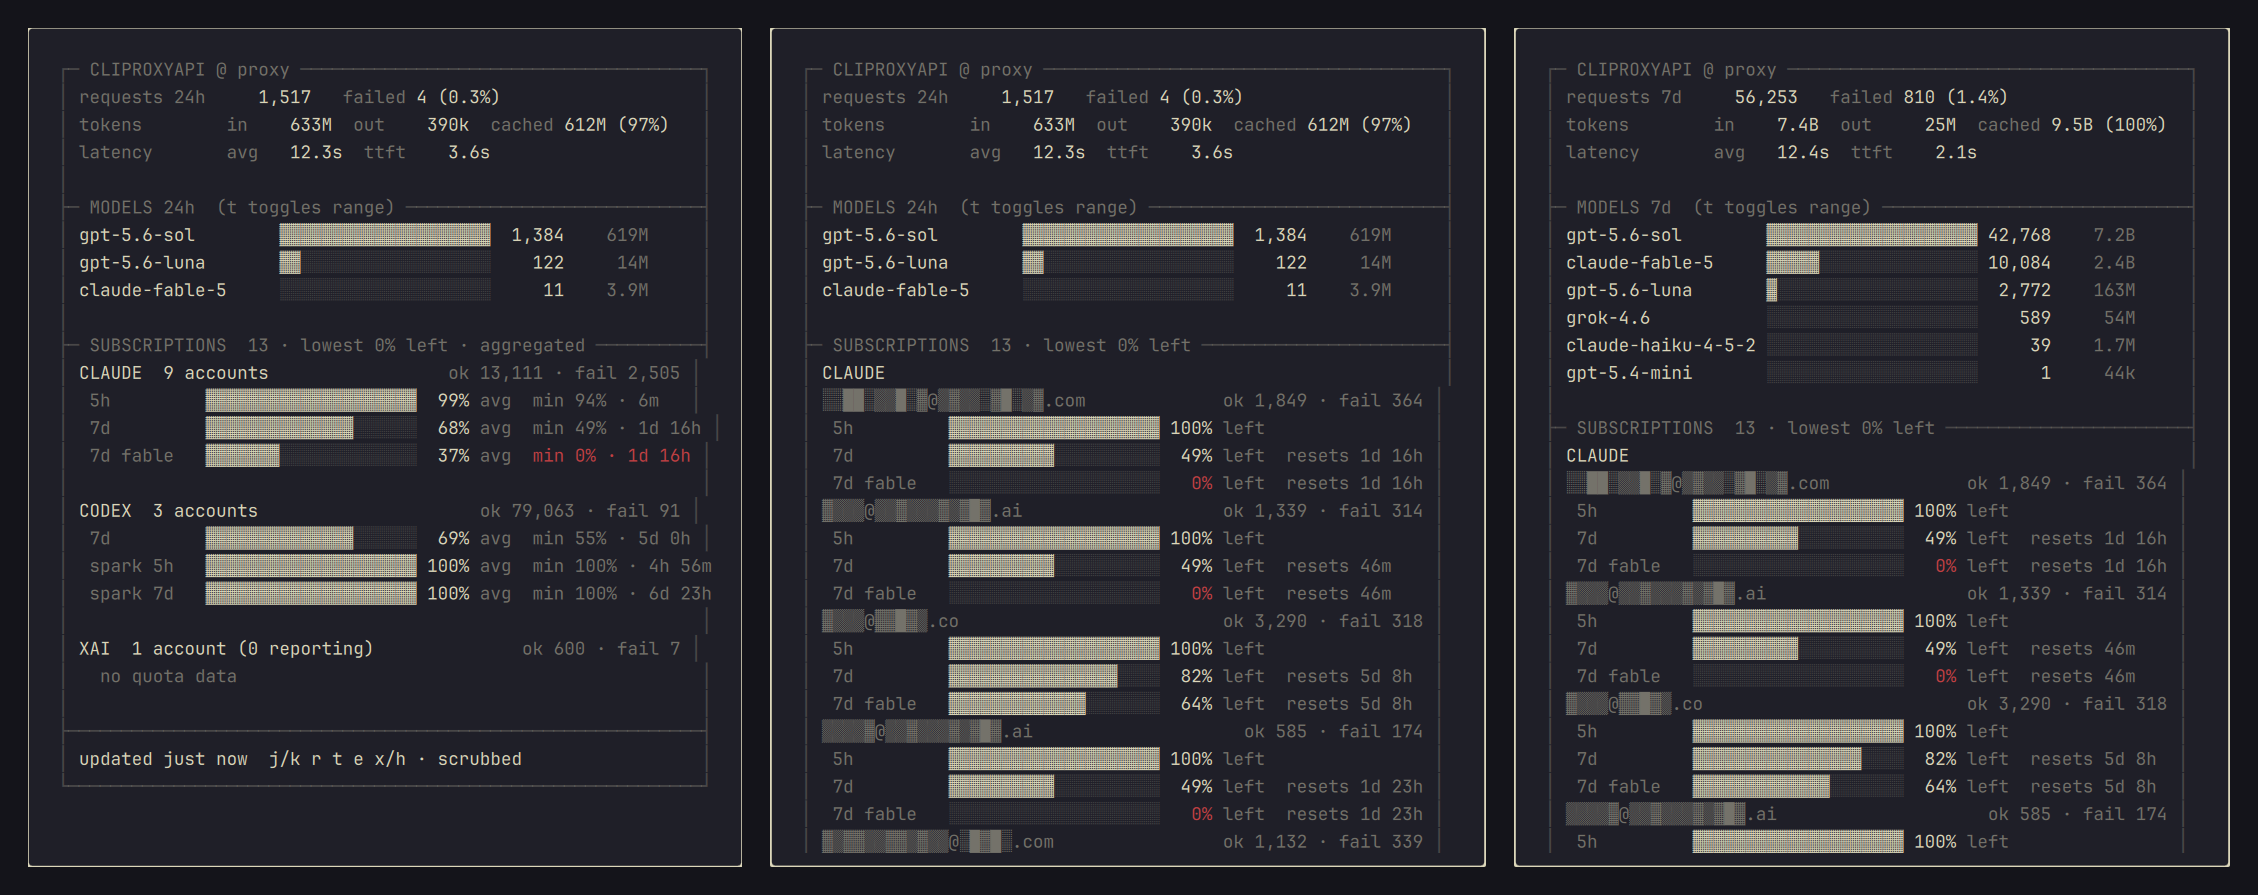
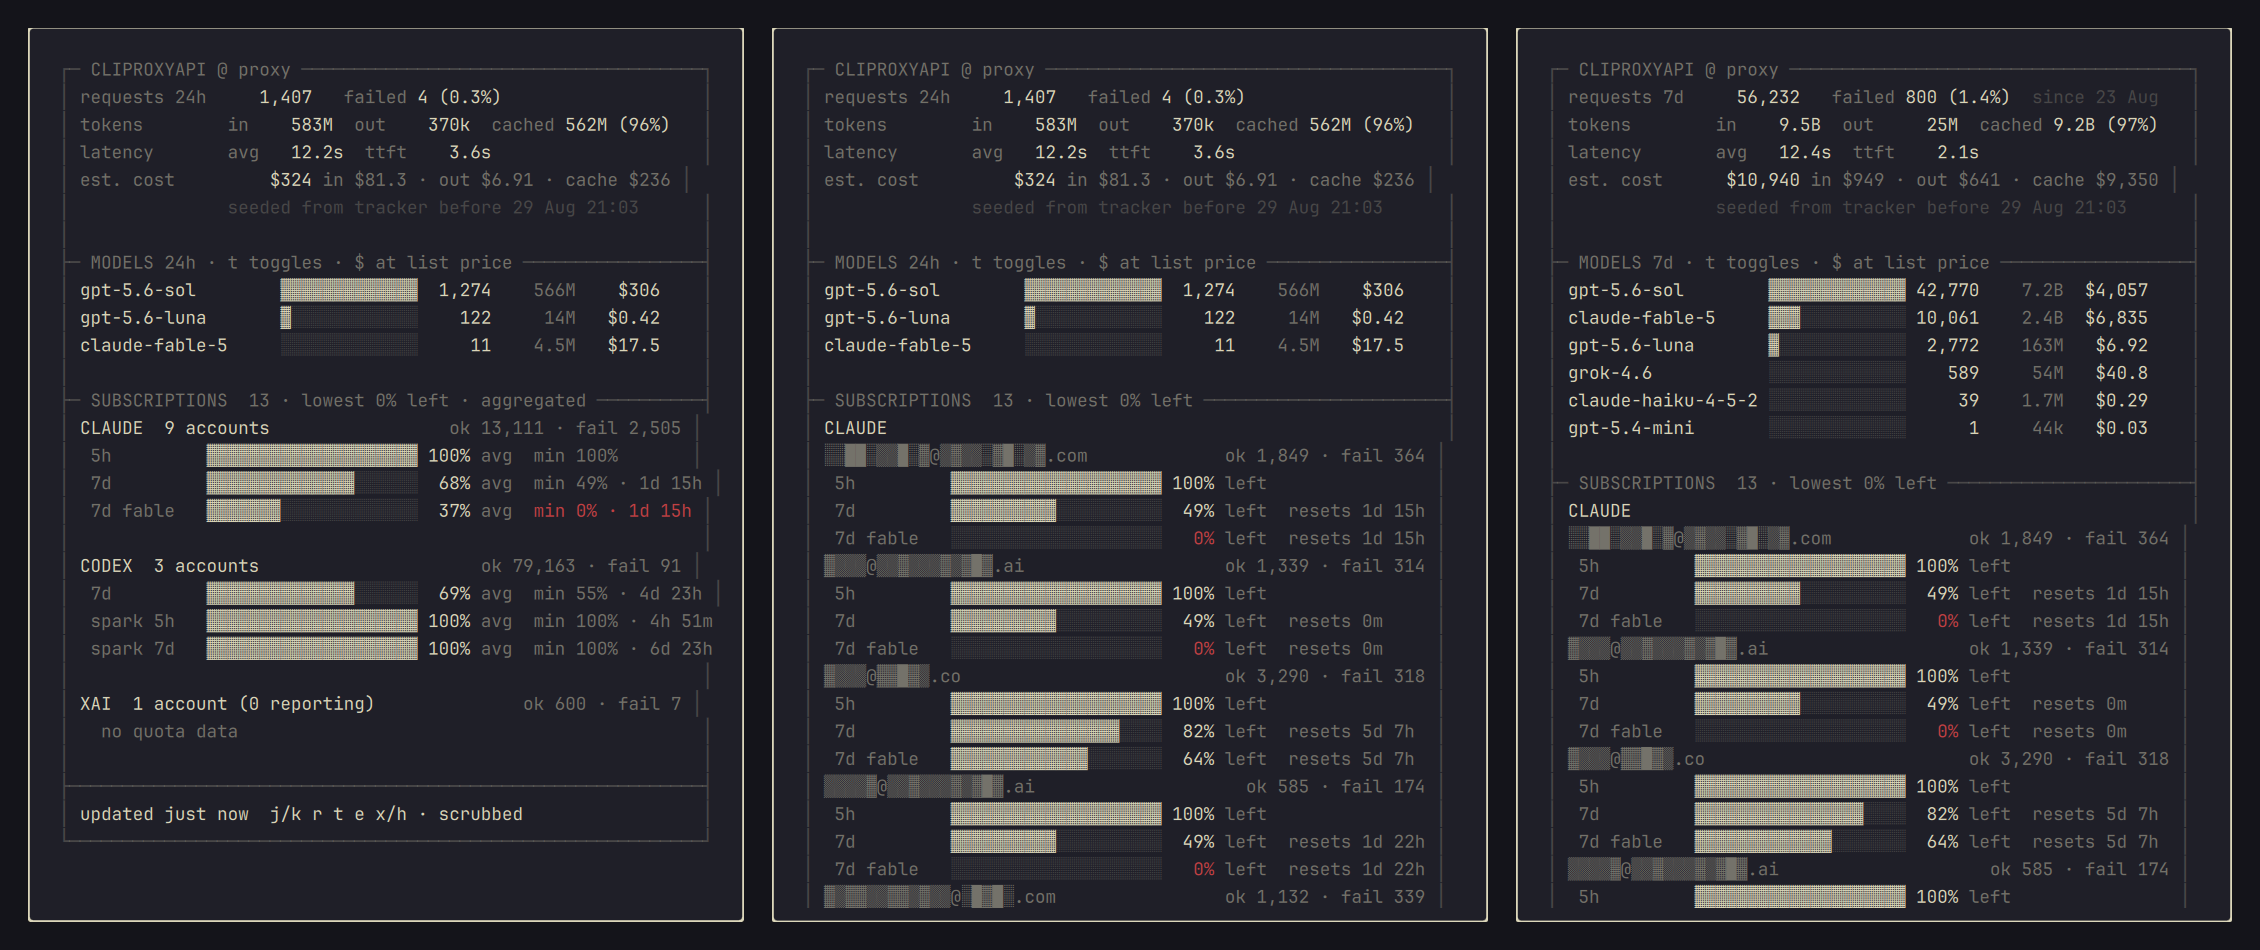
Seed history from the usage tracker when present; fix rule and note rendering

diff --git a/Widget.qml b/Widget.qml
@@ -180,7 +180,7 @@ Panel {
     var d = new Date(ts * 1000)
     var sameDay = new Date(nowMs).toDateString() === d.toDateString()
     var hm = (d.getHours() < 10 ? "0" : "") + d.getHours() + ":" + (d.getMinutes() < 10 ? "0" : "") + d.getMinutes()
-    return sameDay ? hm : d.toLocaleDateString(Qt.locale(), "d MMM") + " " + hm
+    return sameDay ? hm : d.toLocaleDateString(Qt.locale(), "d MMM")
   }
   function fmtMs(ms) {
     if (ms === null || ms === undefined) return "—"
@@ -261,7 +261,7 @@ Panel {
     var l = first ? "┌" : (last ? "└" : "├"), r = first ? "┐" : (last ? "┘" : "┤")
     if (!title) return span(l + rep("─", cols - 2) + r, faint) + "<br>"
     var t = "─ " + title + " "
-    return span(l + t, faint).replace(esc(title), span(title, dim)) + span(rep("─", cols - 2 - t.length) + r, faint) + "<br>"
+    return span(l + "─ ", faint) + span(title, dim) + span(" " + rep("─", cols - 2 - t.length) + r, faint) + "<br>"
   }
 
   function accountLines(acct) {
@@ -381,10 +381,14 @@ Panel {
         var l4 = pad("est. cost", 14) + costTxt + "   " + parts
         out += line(h(span(pad("est. cost", 14), dim) + span(costTxt, fg) + "   " + span(parts, dim), l4.length))
       }
+      if (st.note) {
+        var noteTxt = pad("", 14) + String(st.note).slice(0, cols - 18)
+        out += line(h(span(noteTxt, faint), noteTxt.length))
+      }
       out += line(h("", 0))
 
       // ---- models
-      out += rule("MODELS " + range + " · t toggles" + (st.priced ? " · $ est. at models.dev list price" : ""), false, false)
+      out += rule("MODELS " + range + " · t toggles" + (st.priced ? " · $ at list price" : ""), false, false)
       var models = st.models || []
       var maxReq = 0
       for (var i = 0; i < models.length; i++) maxReq = Math.max(maxReq, models[i].requests)

diff --git a/README.md b/README.md
@@ -23,7 +23,7 @@ omarchy plugin add https://github.com/njpatel/omaquota.git --enable
 omarchy restart shell
 ```
 
-Setup asks for the proxy URL and its management key (the plaintext one, not the hash in `config.yaml`). The proxy needs `remote-management.allow-remote` if it is not on localhost and `usage-statistics-enabled` for the stats block. Omaquota consumes the proxy's usage queue, so run only one consumer; the cost line is an estimate at [models.dev](https://models.dev) list prices.
+Setup asks for the proxy URL and its management key (the plaintext one, not the hash in `config.yaml`). The proxy needs `remote-management.allow-remote` if it is not on localhost and `usage-statistics-enabled` for the stats block. Omaquota consumes the proxy's usage queue, so run only one consumer; the cost line is an estimate at [models.dev](https://models.dev) list prices. If the `cap-token-usage-tracker` plugin is installed, history from before Omaquota is seeded from it once.
 
 ## Use
 
